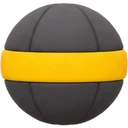
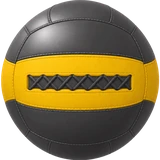
월볼: 받아온 철골 과녁·공 그림으로 교체 (배경 지우고 과녁 가운데·기둥 밑 맞춤)
Claude-Session: https://claude.ai/code/session_01SJE5t9gWC7fQLfFGCGp2rx

diff --git a/handrox/index.html b/handrox/index.html
@@ -701,8 +701,8 @@ const ST=[
     s.k=Math.max(0,s.k-dt*4);if(s.wait>0){s.wait-=dt;return;}if(s.fly){s.ft+=dt;if(s.ft>this.LATE){s.fly=0;s.wait=.55;SFX.drop();fx(L('떨어뜨림!','DROPPED!'),'#ff8a7a',150,60);}}},
   want:()=>'LR',
   /* 3D 선수 뒷모습(스키처럼 오른쪽 사선). 공은 손에서 위 과녁까지 갔다가(멀어지며 작아짐) 손으로 돌아옴. 손 둘레의 고리가 줄어들어 공 크기와 겹칠 때가 딱 맞는 순간 */
-  draw(s){sceneK('ski',1);const x=132,y=164,tx=186,ty=-OFF+60,k=s.wk;   /* 과녁 위 가로대까지 보이게 조금 내림 */
-    {const th=(146-ty)*558/(552.5-103.55),tw=th*215/558;H3.img('wall_rig',tx-89.4/215*tw,ty-103.55/558*th,tw,th);}   /* 철골 틀(기둥 2개+가로대)에 매달린 원형 과녁, 45도: 과녁 가운데(그림 89.4,103.6)를 tx,ty에, 기둥 밑(그림 552.5)은 바닥(146)에 */
+  draw(s){sceneK('ski',1);const x=132,y=164,tx=186,ty=-OFF+74,k=s.wk;   /* 과녁 위 가로대까지 보이게 조금 내림 */
+    {const th=(146-ty)*703/(703-212.6),tw=th*430/703;H3.img('wall_rig',tx-193/430*tw,ty-212.6/703*th,tw,th);}   /* 철골 틀(기둥 2개+가로대)에 매달린 원형 과녁, 45도: 과녁 가운데(그림 193,212.6)를 tx,ty에, 기둥 밑(그림 703)은 바닥(146)에 */
     const hd=q=>{const a=H3.show('wall',x,y,{k:q,peek:1});return a?[(a.hand[0]+a.handR[0])/2+12,(a.hand[1]+a.handR[1])/2-10]:[x,y-60];},ball=(bx,by,r)=>{H3.img('wallball',bx-r,by-r,2*r,2*r);H3.ring(bx,by,r+.3,'rgba(255,255,255,.55)',1);};   /* 어두운 공이 배경에 묻히지 않게 얇은 흰 테두리 */
     let [bx,by]=hd(k),r=10,air=0;
     if(s.fly&&s.ft<this.FB){const u=s.ft/this.FB,q=u<.5?u*2:(1-u)*2,e=1-(1-q)**2,[ax,ay]=hd(u<.5?1:.3);bx=ax+(tx-ax)*e;by=ay+(ty+4-ay)*e;r=10-4*e;air=1;}
